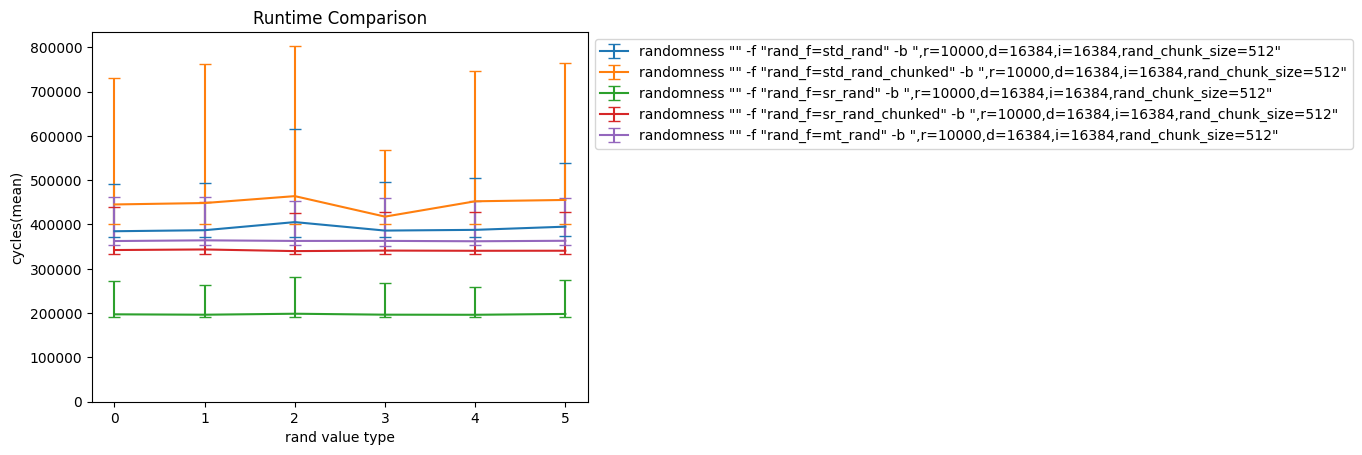
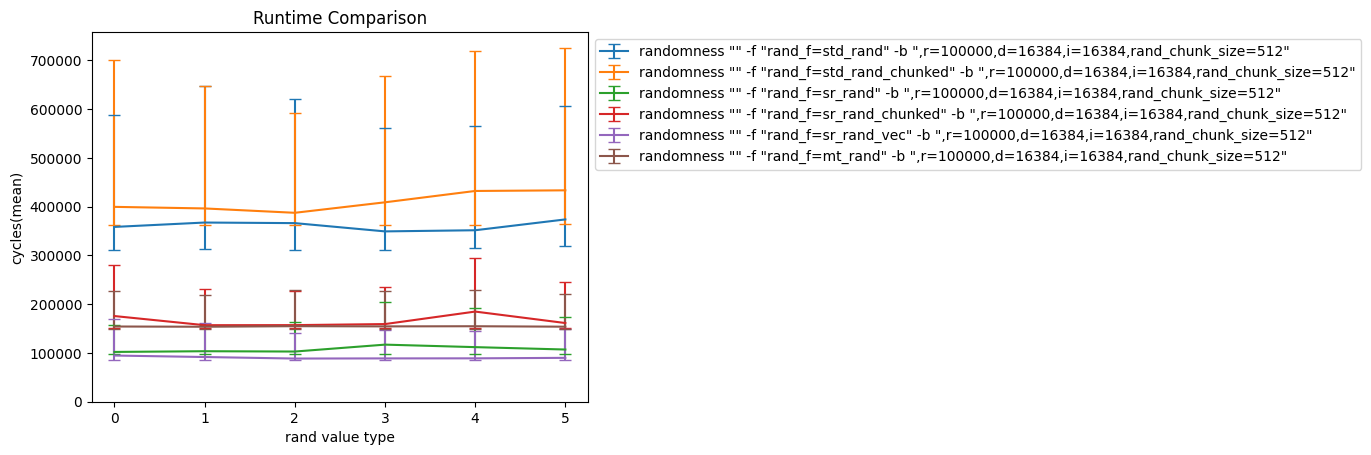
vecorized sr_rand

diff --git a/src/random/generators/shiftreg.c b/src/random/generators/shiftreg.c
@@ -1,6 +1,9 @@
 #include <stdint.h>
 #include <stdlib.h>
+#include <stdio.h>
 #include <time.h>
+#include <immintrin.h>
+
 #include "shiftreg.h"
 
 uint32_t *chunk;
@@ -63,6 +66,7 @@ void sr_init_chunked(void *seed) {
         state_32 = rand();
     }
     chunk = (uint32_t*) malloc(rand_chunk_size*sizeof(uint32_t));
+    sr_refill_chunk();
     chunk_ptr = -1;
 }
 
@@ -73,4 +77,68 @@ uint32_t sr_rand_chunked() {
     }
     chunk_ptr++;
     return chunk[chunk_ptr];
+}
+
+/* Vectorized */
+
+uint32_t *chunk_vec;
+int chunk_ptr_vec;
+
+static __m256i state_32_vec;
+static __m256i const_05_vec;
+static __m256i const_13_vec;
+static __m256i const_17_vec;
+static __m256i clear_mask_vec;
+static __m256i store_mask_vec;
+
+/* Debug function */
+void print_vec(__m256i vec) {
+    uint32_t out[8];
+    _mm256_maskstore_epi32 (out, store_mask_vec, vec);
+    for (int i = 0; i < 8; ++i) {
+        printf("Elem %i is %i\n", i, out[i]);
+    }
+}
+
+void sr_init_vec(void *seed) {
+    // Ignore seed for simplicity
+    srand((unsigned) time(NULL));
+    int r[8];
+    for(int i = 0; i < 8; ++i) {
+        do {
+            r[i] = rand();
+        } while (r[i] == 0);
+    }
+    int mask = (1UL << 31);
+    int clear_mask = ~mask;
+    state_32_vec = _mm256_set_epi32(r[0], r[1], r[2], r[3], r[4], r[5], r[6], r[7]);
+    const_05_vec = _mm256_set1_epi32(5);
+    const_13_vec = _mm256_set1_epi32(13);
+    const_17_vec = _mm256_set1_epi32(17);
+    clear_mask_vec = _mm256_set1_epi32(clear_mask);
+    store_mask_vec = _mm256_set1_epi32(mask);
+    chunk_vec = (uint32_t*) malloc(8*sizeof(uint32_t));
+    sr_refill_vec();
+    chunk_ptr_vec = -1;
+}
+
+
+void sr_refill_vec() {
+    __m256i tmp = _mm256_sllv_epi32(state_32_vec, const_13_vec);
+    state_32_vec = _mm256_xor_si256(state_32_vec, tmp);
+    tmp = _mm256_srav_epi32(state_32_vec, const_17_vec);
+    state_32_vec = _mm256_xor_si256(state_32_vec, tmp);
+    tmp = _mm256_sllv_epi32(state_32_vec, const_05_vec);
+    state_32_vec = _mm256_xor_si256(state_32_vec, tmp);
+    tmp = _mm256_and_si256(state_32_vec, clear_mask_vec);
+    _mm256_maskstore_epi32 (chunk_vec, store_mask_vec, tmp);
+}
+
+uint32_t sr_rand_vec() {
+    if (chunk_ptr_vec >= 7){
+        sr_refill_vec();
+        chunk_ptr_vec = -1;
+    }
+    chunk_ptr_vec++;
+    return chunk_vec[chunk_ptr_vec];
 }

diff --git a/benchmark/benchmark.py b/benchmark/benchmark.py
@@ -398,8 +398,8 @@ BENCHMARKS = [
     "config": [       
        {
           "const_configs": [],
-          "fun_configs": ["rand_f=std_rand", "rand_f=std_rand_chunked", "rand_f=sr_rand", "rand_f=sr_rand_chunked", "rand_f=mt_rand"],
-          "run_configs": ["r=10000,d=16384,i=16384,rand_chunk_size=512"],
+          "fun_configs": ["rand_f=std_rand", "rand_f=std_rand_chunked", "rand_f=sr_rand", "rand_f=sr_rand_chunked", "rand_f=sr_rand_vec", "rand_f=mt_rand"],
+          "run_configs": ["r=100000,d=16384,i=16384,rand_chunk_size=512"],
           "input_configs": [("type", randValTypes)]
        }
     ],

diff --git a/src/volume/volume_helper.hpp b/src/volume/volume_helper.hpp
@@ -218,6 +218,7 @@ public:
                        {"std_rand_chunked",{{std_init_chunked, std_rand_chunked}, "standard rand (chunked)"}},
 						     {"sr_rand",{{sr_init, sr_random_uint32}, "shift register rand"}},
                        {"sr_rand_chunked",{{sr_init_chunked, sr_rand_chunked}, "shift register rand (chunked)"}},
+                       {"sr_rand_vec",{{sr_init_vec, sr_rand_vec}, "shift register rand (vec)"}},
 						     {"mt_rand",{{mt_init, mt_rand}, "mersenne twister rand"}}
                      }));
 

diff --git a/src/random/generators/std_rand.c b/src/random/generators/std_rand.c
@@ -22,6 +22,7 @@ inline void refill_chunk() {
 void std_init_chunked(void *seed) {
     srand((unsigned) time(seed));
     chunk = (uint32_t*) malloc(rand_chunk_size*sizeof(uint32_t));
+    refill_chunk();
     chunk_ptr = -1;
 }
 

diff --git a/src/random/generators/shiftreg.h b/src/random/generators/shiftreg.h
@@ -19,5 +19,12 @@ uint32_t sr_rand_chunked();
 
 void sr_refill_chunk();
 
+// Vectorized random values
+void sr_init_vec(void *seed);
+
+uint32_t sr_rand_vec();
+
+void sr_refill_vec();
+
 
 #endif // HEADER_PRNG_SHIFTREG_H
